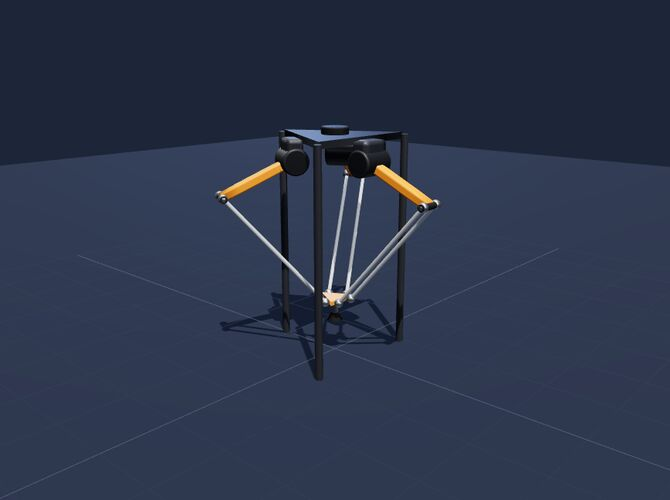
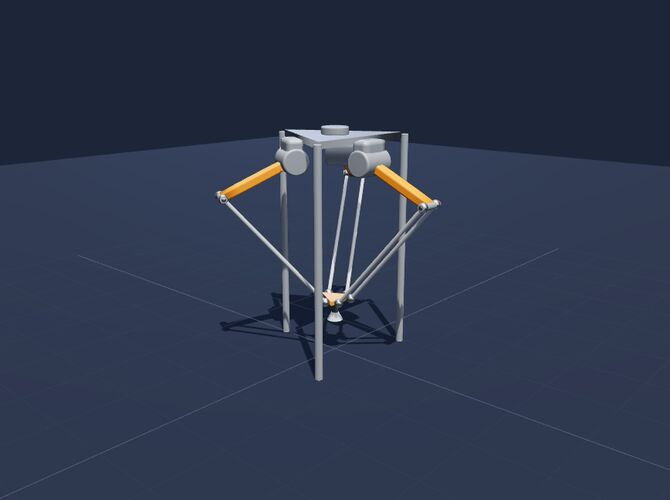
Re-render the dark anatomy thumbnails with light grey dark parts
Claude-Session: https://claude.ai/code/session_015VqmnNLeFGZq3AXD4Dp2x4

Changed region(s): [[0.3881, 0.24, 0.6269, 0.75], [0.5672, 0.39, 0.6567, 0.69], [0.3284, 0.39, 0.3582, 0.42]]

diff --git a/sw.js b/sw.js
@@ -1,8 +1,8 @@
 // sw.js — generated by tools/build-offline.mjs from tools/sw-src.js: do not edit.
-const VERSION = 'a126f00a4b', SIZE = 7513673;
-const FILES = {"/404.html":"8da2896bfe","/anatomy-cobot.html":"7d10f8a178","/anatomy-delta.html":"abfc04b726","/anatomy-drives.html":"709df47092","/anatomy-gantry.html":"e976796c89","/anatomy-humanoid.html":"1c500f632e","/anatomy-mobile.html":"6033337528","/anatomy-quadrotor.html":"a2779ee015","/anatomy-scara.html":"f6701099e2","/anatomy-stewart.html":"2a8febbaf9","/anatomy-wheels.html":"84d128e5ca","/anatomy.html":"a5cc754e46","/anatomy.js":"97139eb45a","/arm.html":"9c291c0d91","/articulated.html":"178a3f951b","/build.html":"7d7dfbf3de","/build.js":"0a2baa5079","/certificate.html":"a6a7211ef2","/certificate.js":"ab7075d874","/cobot.html":"47885b7995","/courses.js":"a4b9db9717","/delta.html":"36a8c0c518","/dharm.js":"f252a8bdfb","/gantry.html":"7a193c1d16","/glossary-data.js":"711968298a","/glossary.html":"e0e524d82c","/glossary.js":"a9f3a57f23","/helpers.js":"b4971d3e57","/i18n/fr-404.js":"b7c9798e34","/i18n/fr-anatomy-cobot.js":"61a14319c6","/i18n/fr-anatomy-delta.js":"a361272e30","/i18n/fr-anatomy-drives.js":"3dfd6859ee","/i18n/fr-anatomy-gantry.js":"671c38ec9e","/i18n/fr-anatomy-humanoid.js":"395565af9a","/i18n/fr-anatomy-mobile.js":"664b4f1b48","/i18n/fr-anatomy-quadrotor.js":"90fc91787a","/i18n/fr-anatomy-scara.js":"333783da16","/i18n/fr-anatomy-stewart.js":"1517fa8690","/i18n/fr-anatomy-wheels.js":"bbdad603aa","/i18n/fr-anatomy.js":"df3d3ff246","/i18n/fr-arm.js":"2fc722f1e5","/i18n/fr-articulated.js":"3405e2fcbe","/i18n/fr-build.js":"599c9b5ad7","/i18n/fr-cobot.js":"427e255d11","/i18n/fr-common.js":"edbf6d9fe4","/i18n/fr-delta.js":"a85602b153","/i18n/fr-gantry.js":"c42f143b51","/i18n/fr-index.js":"7d1c059d77","/i18n/fr-learn-advanced.js":"61172f6fa8","/i18n/fr-learn-armlab.js":"bd4cda8709","/i18n/fr-learn-control.js":"384ea91f48","/i18n/fr-learn-intelligence.js":"941cf5bc75","/i18n/fr-learn-mathkit.js":"fa55b6744c","/i18n/fr-learn-maths.js":"f627261e01","/i18n/fr-learn-mobile-pro.js":"2d7e75d703","/i18n/fr-learn-mobile.js":"33ba8b2d70","/i18n/fr-learn-model.js":"919ecc5874","/i18n/fr-learn-ros.js":"602763de5f","/i18n/fr-learn-singularities.js":"d5bd02c934","/i18n/fr-learn-world.js":"aa27b7d829","/i18n/fr-learn.js":"d456d2f035","/i18n/fr-mobile.js":"7afb8fba3a","/i18n/fr-scara.js":"ffeb5e9ad7","/i18n/fr-wheels.js":"a13de46aca","/icons/apple-touch-icon.png":"00f0670f9f","/icons/icon-192.png":"ba0ef106c9","/icons/icon-512.png":"3983a293fb","/icons/maskable-512.png":"b1db7520b1","/index.html":"6ebba96c9d","/inside-demo.js":"65daadefdb","/learn-advanced.html":"4c3f66c544","/learn-armlab.html":"98c005a104","/learn-control.html":"db00d1adfe","/learn-intelligence.html":"a782210d76","/learn-mathkit.html":"fcd1708c96","/learn-maths.html":"1747dcea95","/learn-mobile-pro.html":"8bf43fc07d","/learn-mobile-widgets.js":"19a711a9ef","/learn-mobile.html":"18a5aeb9b1","/learn-model.html":"e087a017da","/learn-more-widgets.js":"95f8081e6a","/learn-ros.html":"e59e09bc45","/learn-singularities.html":"7db6a141f5","/learn-widgets.js":"86e5dd2661","/learn-world.html":"3a8d499bc0","/learn.html":"69f4b6a049","/lesson-quiz.js":"42c2b9499c","/logo.svg":"438dd51dd6","/manifest.webmanifest":"ee43b67fc0","/mobile.html":"f683267ab6","/nav.js":"dbd49bde8d","/offline.html":"75f692a716","/ops-demo.js":"17d6b8b70c","/revision-data.js":"56ef77afc0","/revision.html":"f0fbcb7907","/revision.js":"6e67e8ffc8","/scara.html":"e84573f74f","/search-index.js":"d1ac932e4c","/search.js":"9e34079316","/sensors.html":"55313d685d","/sensors.js":"adfc65aced","/style.css":"69fe50530e","/system-demo.js":"ef7df46871","/thumbs/anatomy-cobot-dark.jpg":"77f027af81","/thumbs/anatomy-cobot-dark.png":"18d491325d","/thumbs/anatomy-cobot.jpg":"945d4b3ce7","/thumbs/anatomy-cobot.png":"12c853c588","/thumbs/anatomy-dark.jpg":"e0de58a15d","/thumbs/anatomy-dark.png":"cf3b66a8a9","/thumbs/anatomy-delta-dark.jpg":"844a4b0c9a","/thumbs/anatomy-delta-dark.png":"dc20f7ed94","/thumbs/anatomy-delta.jpg":"6f555a41b8","/thumbs/anatomy-delta.png":"ab27fcdfba","/thumbs/anatomy-drives-dark.jpg":"4a1456a9cc","/thumbs/anatomy-drives.jpg":"3492d264ef","/thumbs/anatomy-drives.png":"bba0b6cb08","/thumbs/anatomy-gantry-dark.jpg":"ea49e9920e","/thumbs/anatomy-gantry-dark.png":"64c616933c","/thumbs/anatomy-gantry.jpg":"b3f76550f3","/thumbs/anatomy-gantry.png":"f425c5a55e","/thumbs/anatomy-humanoid-dark.jpg":"f2686eec4a","/thumbs/anatomy-humanoid.jpg":"f708a99300","/thumbs/anatomy-humanoid.png":"4eb6ef57b7","/thumbs/anatomy-mobile-dark.jpg":"0cb6a6f602","/thumbs/anatomy-mobile-dark.png":"882ac48f29","/thumbs/anatomy-mobile.jpg":"b60e58446c","/thumbs/anatomy-mobile.png":"5a7f5380fb","/thumbs/anatomy-quadrotor-dark.jpg":"471aac536a","/thumbs/anatomy-quadrotor.jpg":"1b029683c1","/thumbs/anatomy-quadrotor.png":"07b512ae84","/thumbs/anatomy-scara-dark.jpg":"a98e9c0d69","/thumbs/anatomy-scara-dark.png":"2cabdf1baa","/thumbs/anatomy-scara.jpg":"70d4036498","/thumbs/anatomy-scara.png":"a477cd52a9","/thumbs/anatomy-stewart-dark.jpg":"4cb3a07bfc","/thumbs/anatomy-stewart.jpg":"e3f5e710b4","/thumbs/anatomy-stewart.png":"6b9c7e9a23","/thumbs/anatomy-wheels-dark.jpg":"b479ae9200","/thumbs/anatomy-wheels.jpg":"02136686d9","/thumbs/anatomy-wheels.png":"a5e4350f9d","/thumbs/anatomy.jpg":"b8d89487b3","/thumbs/anatomy.png":"55a665809e","/vendor/addons/controls/OrbitControls.js":"7909173281","/vendor/three.module.min.js":"2992ecd75d","/wheel-lab.js":"3f62c2f3f4","/wheels.html":"cd0347993b"};
-const SIZES = {"/404.html":1751,"/anatomy-cobot.html":14488,"/anatomy-delta.html":14453,"/anatomy-drives.html":15834,"/anatomy-gantry.html":14316,"/anatomy-humanoid.html":16268,"/anatomy-mobile.html":14597,"/anatomy-quadrotor.html":15723,"/anatomy-scara.html":14083,"/anatomy-stewart.html":15492,"/anatomy-wheels.html":15209,"/anatomy.html":14536,"/anatomy.js":93164,"/arm.html":17492,"/articulated.html":34031,"/build.html":2147,"/build.js":41249,"/certificate.html":1779,"/certificate.js":11669,"/cobot.html":33621,"/courses.js":4521,"/delta.html":40644,"/dharm.js":7212,"/gantry.html":19830,"/glossary-data.js":83474,"/glossary.html":1822,"/glossary.js":7125,"/helpers.js":9318,"/i18n/fr-404.js":416,"/i18n/fr-anatomy-cobot.js":3704,"/i18n/fr-anatomy-delta.js":4078,"/i18n/fr-anatomy-drives.js":5220,"/i18n/fr-anatomy-gantry.js":3921,"/i18n/fr-anatomy-humanoid.js":5770,"/i18n/fr-anatomy-mobile.js":4173,"/i18n/fr-anatomy-quadrotor.js":5224,"/i18n/fr-anatomy-scara.js":3557,"/i18n/fr-anatomy-stewart.js":4839,"/i18n/fr-anatomy-wheels.js":4821,"/i18n/fr-anatomy.js":3693,"/i18n/fr-arm.js":5690,"/i18n/fr-articulated.js":8775,"/i18n/fr-build.js":346,"/i18n/fr-cobot.js":11159,"/i18n/fr-common.js":9616,"/i18n/fr-delta.js":12909,"/i18n/fr-gantry.js":6690,"/i18n/fr-index.js":11995,"/i18n/fr-learn-advanced.js":66498,"/i18n/fr-learn-armlab.js":32670,"/i18n/fr-learn-control.js":104453,"/i18n/fr-learn-intelligence.js":65307,"/i18n/fr-learn-mathkit.js":90003,"/i18n/fr-learn-maths.js":52007,"/i18n/fr-learn-mobile-pro.js":151135,"/i18n/fr-learn-mobile.js":125679,"/i18n/fr-learn-model.js":78628,"/i18n/fr-learn-ros.js":58956,"/i18n/fr-learn-singularities.js":65849,"/i18n/fr-learn-world.js":76717,"/i18n/fr-learn.js":35993,"/i18n/fr-mobile.js":8757,"/i18n/fr-scara.js":6606,"/i18n/fr-wheels.js":30722,"/icons/apple-touch-icon.png":2867,"/icons/icon-192.png":5748,"/icons/icon-512.png":16840,"/icons/maskable-512.png":7246,"/index.html":80101,"/inside-demo.js":79852,"/learn-advanced.html":102382,"/learn-armlab.html":61892,"/learn-control.html":170846,"/learn-intelligence.html":106162,"/learn-mathkit.html":148640,"/learn-maths.html":104749,"/learn-mobile-pro.html":181318,"/learn-mobile-widgets.js":74650,"/learn-mobile.html":146762,"/learn-model.html":178189,"/learn-more-widgets.js":38015,"/learn-ros.html":120578,"/learn-singularities.html":100869,"/learn-widgets.js":10300,"/learn-world.html":116331,"/learn.html":97096,"/lesson-quiz.js":10831,"/logo.svg":456,"/manifest.webmanifest":785,"/mobile.html":30061,"/nav.js":50176,"/offline.html":4270,"/ops-demo.js":88807,"/revision-data.js":226171,"/revision.html":1773,"/revision.js":6057,"/scara.html":27280,"/search-index.js":378933,"/search.js":9405,"/sensors.html":1834,"/sensors.js":47046,"/style.css":163289,"/system-demo.js":136758,"/thumbs/anatomy-cobot-dark.jpg":12640,"/thumbs/anatomy-cobot-dark.png":78058,"/thumbs/anatomy-cobot.jpg":25754,"/thumbs/anatomy-cobot.png":66551,"/thumbs/anatomy-dark.jpg":14143,"/thumbs/anatomy-dark.png":93233,"/thumbs/anatomy-delta-dark.jpg":14259,"/thumbs/anatomy-delta-dark.png":90883,"/thumbs/anatomy-delta.jpg":31655,"/thumbs/anatomy-delta.png":78516,"/thumbs/anatomy-drives-dark.jpg":12497,"/thumbs/anatomy-drives.jpg":19386,"/thumbs/anatomy-drives.png":81228,"/thumbs/anatomy-gantry-dark.jpg":14645,"/thumbs/anatomy-gantry-dark.png":105707,"/thumbs/anatomy-gantry.jpg":34232,"/thumbs/anatomy-gantry.png":97027,"/thumbs/anatomy-humanoid-dark.jpg":11752,"/thumbs/anatomy-humanoid.jpg":35261,"/thumbs/anatomy-humanoid.png":78996,"/thumbs/anatomy-mobile-dark.jpg":9313,"/thumbs/anatomy-mobile-dark.png":66720,"/thumbs/anatomy-mobile.jpg":18117,"/thumbs/anatomy-mobile.png":55962,"/thumbs/anatomy-quadrotor-dark.jpg":9333,"/thumbs/anatomy-quadrotor.jpg":15499,"/thumbs/anatomy-quadrotor.png":42575,"/thumbs/anatomy-scara-dark.jpg":12699,"/thumbs/anatomy-scara-dark.png":78144,"/thumbs/anatomy-scara.jpg":31690,"/thumbs/anatomy-scara.png":71364,"/thumbs/anatomy-stewart-dark.jpg":13778,"/thumbs/anatomy-stewart.jpg":31592,"/thumbs/anatomy-stewart.png":85083,"/thumbs/anatomy-wheels-dark.jpg":19673,"/thumbs/anatomy-wheels.jpg":42363,"/thumbs/anatomy-wheels.png":130528,"/thumbs/anatomy.jpg":31308,"/thumbs/anatomy.png":80185,"/vendor/addons/controls/OrbitControls.js":29868,"/vendor/three.module.min.js":670681,"/wheel-lab.js":31950,"/wheels.html":61036};
-const CORE = ["/index.html","/offline.html","/certificate.html","/style.css","/nav.js","/helpers.js","/dharm.js","/lesson-quiz.js","/search.js","/search-index.js","/courses.js","/certificate.js","/logo.svg","/manifest.webmanifest","/i18n/fr-common.js","/i18n/fr-index.js","/vendor/three.module.min.js","/vendor/addons/controls/OrbitControls.js","/icons/apple-touch-icon.png","/icons/icon-192.png","/icons/icon-512.png","/icons/maskable-512.png","/thumbs/anatomy-cobot-dark.jpg","/thumbs/anatomy-cobot-dark.png","/thumbs/anatomy-cobot.jpg","/thumbs/anatomy-cobot.png","/thumbs/anatomy-dark.jpg","/thumbs/anatomy-dark.png","/thumbs/anatomy-delta-dark.jpg","/thumbs/anatomy-delta-dark.png","/thumbs/anatomy-delta.jpg","/thumbs/anatomy-delta.png","/thumbs/anatomy-drives-dark.jpg","/thumbs/anatomy-drives.jpg","/thumbs/anatomy-drives.png","/thumbs/anatomy-gantry-dark.jpg","/thumbs/anatomy-gantry-dark.png","/thumbs/anatomy-gantry.jpg","/thumbs/anatomy-gantry.png","/thumbs/anatomy-humanoid-dark.jpg","/thumbs/anatomy-humanoid.jpg","/thumbs/anatomy-humanoid.png","/thumbs/anatomy-mobile-dark.jpg","/thumbs/anatomy-mobile-dark.png","/thumbs/anatomy-mobile.jpg","/thumbs/anatomy-mobile.png","/thumbs/anatomy-quadrotor-dark.jpg","/thumbs/anatomy-quadrotor.jpg","/thumbs/anatomy-quadrotor.png","/thumbs/anatomy-scara-dark.jpg","/thumbs/anatomy-scara-dark.png","/thumbs/anatomy-scara.jpg","/thumbs/anatomy-scara.png","/thumbs/anatomy-stewart-dark.jpg","/thumbs/anatomy-stewart.jpg","/thumbs/anatomy-stewart.png","/thumbs/anatomy-wheels-dark.jpg","/thumbs/anatomy-wheels.jpg","/thumbs/anatomy-wheels.png","/thumbs/anatomy.jpg","/thumbs/anatomy.png"];
+const VERSION = 'deb5ed85e2', SIZE = 6139404;
+const FILES = {"/404.html":"8da2896bfe","/anatomy-cobot.html":"7d10f8a178","/anatomy-delta.html":"abfc04b726","/anatomy-drives.html":"709df47092","/anatomy-gantry.html":"e976796c89","/anatomy-humanoid.html":"1c500f632e","/anatomy-mobile.html":"6033337528","/anatomy-quadrotor.html":"a2779ee015","/anatomy-scara.html":"f6701099e2","/anatomy-stewart.html":"2a8febbaf9","/anatomy-wheels.html":"84d128e5ca","/anatomy.html":"a5cc754e46","/anatomy.js":"97139eb45a","/arm.html":"9c291c0d91","/articulated.html":"178a3f951b","/build.html":"7d7dfbf3de","/build.js":"0a2baa5079","/certificate.html":"a6a7211ef2","/certificate.js":"ab7075d874","/cobot.html":"47885b7995","/courses.js":"a4b9db9717","/delta.html":"36a8c0c518","/dharm.js":"f252a8bdfb","/gantry.html":"7a193c1d16","/glossary-data.js":"711968298a","/glossary.html":"e0e524d82c","/glossary.js":"a9f3a57f23","/helpers.js":"b4971d3e57","/i18n/fr-404.js":"b7c9798e34","/i18n/fr-anatomy-cobot.js":"61a14319c6","/i18n/fr-anatomy-delta.js":"a361272e30","/i18n/fr-anatomy-drives.js":"3dfd6859ee","/i18n/fr-anatomy-gantry.js":"671c38ec9e","/i18n/fr-anatomy-humanoid.js":"395565af9a","/i18n/fr-anatomy-mobile.js":"664b4f1b48","/i18n/fr-anatomy-quadrotor.js":"90fc91787a","/i18n/fr-anatomy-scara.js":"333783da16","/i18n/fr-anatomy-stewart.js":"1517fa8690","/i18n/fr-anatomy-wheels.js":"bbdad603aa","/i18n/fr-anatomy.js":"df3d3ff246","/i18n/fr-arm.js":"2fc722f1e5","/i18n/fr-articulated.js":"3405e2fcbe","/i18n/fr-build.js":"599c9b5ad7","/i18n/fr-cobot.js":"427e255d11","/i18n/fr-common.js":"edbf6d9fe4","/i18n/fr-delta.js":"a85602b153","/i18n/fr-gantry.js":"c42f143b51","/i18n/fr-index.js":"7d1c059d77","/i18n/fr-learn-advanced.js":"61172f6fa8","/i18n/fr-learn-armlab.js":"bd4cda8709","/i18n/fr-learn-control.js":"384ea91f48","/i18n/fr-learn-intelligence.js":"941cf5bc75","/i18n/fr-learn-mathkit.js":"fa55b6744c","/i18n/fr-learn-maths.js":"f627261e01","/i18n/fr-learn-mobile-pro.js":"2d7e75d703","/i18n/fr-learn-mobile.js":"33ba8b2d70","/i18n/fr-learn-model.js":"919ecc5874","/i18n/fr-learn-ros.js":"602763de5f","/i18n/fr-learn-singularities.js":"d5bd02c934","/i18n/fr-learn-world.js":"aa27b7d829","/i18n/fr-learn.js":"d456d2f035","/i18n/fr-mobile.js":"7afb8fba3a","/i18n/fr-scara.js":"ffeb5e9ad7","/i18n/fr-wheels.js":"a13de46aca","/icons/apple-touch-icon.png":"00f0670f9f","/icons/icon-192.png":"ba0ef106c9","/icons/icon-512.png":"3983a293fb","/icons/maskable-512.png":"b1db7520b1","/index.html":"6ebba96c9d","/inside-demo.js":"65daadefdb","/learn-advanced.html":"4c3f66c544","/learn-armlab.html":"98c005a104","/learn-control.html":"db00d1adfe","/learn-intelligence.html":"a782210d76","/learn-mathkit.html":"fcd1708c96","/learn-maths.html":"1747dcea95","/learn-mobile-pro.html":"8bf43fc07d","/learn-mobile-widgets.js":"19a711a9ef","/learn-mobile.html":"18a5aeb9b1","/learn-model.html":"e087a017da","/learn-more-widgets.js":"95f8081e6a","/learn-ros.html":"e59e09bc45","/learn-singularities.html":"7db6a141f5","/learn-widgets.js":"86e5dd2661","/learn-world.html":"3a8d499bc0","/learn.html":"69f4b6a049","/lesson-quiz.js":"42c2b9499c","/logo.svg":"438dd51dd6","/manifest.webmanifest":"ee43b67fc0","/mobile.html":"f683267ab6","/nav.js":"dbd49bde8d","/offline.html":"75f692a716","/ops-demo.js":"17d6b8b70c","/revision-data.js":"56ef77afc0","/revision.html":"f0fbcb7907","/revision.js":"6e67e8ffc8","/scara.html":"e84573f74f","/search-index.js":"d1ac932e4c","/search.js":"9e34079316","/sensors.html":"55313d685d","/sensors.js":"adfc65aced","/style.css":"69fe50530e","/system-demo.js":"ef7df46871","/thumbs/anatomy-cobot-dark.jpg":"cdd1c4b9ed","/thumbs/anatomy-cobot.jpg":"945d4b3ce7","/thumbs/anatomy-dark.jpg":"9a2318b6e2","/thumbs/anatomy-delta-dark.jpg":"f56dabe5f5","/thumbs/anatomy-delta.jpg":"6f555a41b8","/thumbs/anatomy-drives-dark.jpg":"3c51209817","/thumbs/anatomy-drives.jpg":"3492d264ef","/thumbs/anatomy-gantry-dark.jpg":"47779e8bfb","/thumbs/anatomy-gantry.jpg":"b3f76550f3","/thumbs/anatomy-humanoid-dark.jpg":"7e387dd6b8","/thumbs/anatomy-humanoid.jpg":"f708a99300","/thumbs/anatomy-mobile-dark.jpg":"5011b9eac6","/thumbs/anatomy-mobile.jpg":"b60e58446c","/thumbs/anatomy-quadrotor-dark.jpg":"6738c2ad7d","/thumbs/anatomy-quadrotor.jpg":"1b029683c1","/thumbs/anatomy-scara-dark.jpg":"7774850248","/thumbs/anatomy-scara.jpg":"70d4036498","/thumbs/anatomy-stewart-dark.jpg":"643d7302b7","/thumbs/anatomy-stewart.jpg":"e3f5e710b4","/thumbs/anatomy-wheels-dark.jpg":"eec1c144b6","/thumbs/anatomy-wheels.jpg":"02136686d9","/thumbs/anatomy.jpg":"b8d89487b3","/vendor/addons/controls/OrbitControls.js":"7909173281","/vendor/three.module.min.js":"2992ecd75d","/wheel-lab.js":"3f62c2f3f4","/wheels.html":"cd0347993b"};
+const SIZES = {"/404.html":1751,"/anatomy-cobot.html":14488,"/anatomy-delta.html":14453,"/anatomy-drives.html":15834,"/anatomy-gantry.html":14316,"/anatomy-humanoid.html":16268,"/anatomy-mobile.html":14597,"/anatomy-quadrotor.html":15723,"/anatomy-scara.html":14083,"/anatomy-stewart.html":15492,"/anatomy-wheels.html":15209,"/anatomy.html":14536,"/anatomy.js":93164,"/arm.html":17492,"/articulated.html":34031,"/build.html":2147,"/build.js":41249,"/certificate.html":1779,"/certificate.js":11669,"/cobot.html":33621,"/courses.js":4521,"/delta.html":40644,"/dharm.js":7212,"/gantry.html":19830,"/glossary-data.js":83474,"/glossary.html":1822,"/glossary.js":7125,"/helpers.js":9318,"/i18n/fr-404.js":416,"/i18n/fr-anatomy-cobot.js":3704,"/i18n/fr-anatomy-delta.js":4078,"/i18n/fr-anatomy-drives.js":5220,"/i18n/fr-anatomy-gantry.js":3921,"/i18n/fr-anatomy-humanoid.js":5770,"/i18n/fr-anatomy-mobile.js":4173,"/i18n/fr-anatomy-quadrotor.js":5224,"/i18n/fr-anatomy-scara.js":3557,"/i18n/fr-anatomy-stewart.js":4839,"/i18n/fr-anatomy-wheels.js":4821,"/i18n/fr-anatomy.js":3693,"/i18n/fr-arm.js":5690,"/i18n/fr-articulated.js":8775,"/i18n/fr-build.js":346,"/i18n/fr-cobot.js":11159,"/i18n/fr-common.js":9616,"/i18n/fr-delta.js":12909,"/i18n/fr-gantry.js":6690,"/i18n/fr-index.js":11995,"/i18n/fr-learn-advanced.js":66498,"/i18n/fr-learn-armlab.js":32670,"/i18n/fr-learn-control.js":104453,"/i18n/fr-learn-intelligence.js":65307,"/i18n/fr-learn-mathkit.js":90003,"/i18n/fr-learn-maths.js":52007,"/i18n/fr-learn-mobile-pro.js":151135,"/i18n/fr-learn-mobile.js":125679,"/i18n/fr-learn-model.js":78628,"/i18n/fr-learn-ros.js":58956,"/i18n/fr-learn-singularities.js":65849,"/i18n/fr-learn-world.js":76717,"/i18n/fr-learn.js":35993,"/i18n/fr-mobile.js":8757,"/i18n/fr-scara.js":6606,"/i18n/fr-wheels.js":30722,"/icons/apple-touch-icon.png":2867,"/icons/icon-192.png":5748,"/icons/icon-512.png":16840,"/icons/maskable-512.png":7246,"/index.html":80101,"/inside-demo.js":79852,"/learn-advanced.html":102382,"/learn-armlab.html":61892,"/learn-control.html":170846,"/learn-intelligence.html":106162,"/learn-mathkit.html":148640,"/learn-maths.html":104749,"/learn-mobile-pro.html":181318,"/learn-mobile-widgets.js":74650,"/learn-mobile.html":146762,"/learn-model.html":178189,"/learn-more-widgets.js":38015,"/learn-ros.html":120578,"/learn-singularities.html":100869,"/learn-widgets.js":10300,"/learn-world.html":116331,"/learn.html":97096,"/lesson-quiz.js":10831,"/logo.svg":456,"/manifest.webmanifest":785,"/mobile.html":30061,"/nav.js":50176,"/offline.html":4270,"/ops-demo.js":88807,"/revision-data.js":226171,"/revision.html":1773,"/revision.js":6057,"/scara.html":27280,"/search-index.js":378933,"/search.js":9405,"/sensors.html":1834,"/sensors.js":47046,"/style.css":163289,"/system-demo.js":136758,"/thumbs/anatomy-cobot-dark.jpg":12875,"/thumbs/anatomy-cobot.jpg":25754,"/thumbs/anatomy-dark.jpg":14361,"/thumbs/anatomy-delta-dark.jpg":14720,"/thumbs/anatomy-delta.jpg":31655,"/thumbs/anatomy-drives-dark.jpg":12597,"/thumbs/anatomy-drives.jpg":19386,"/thumbs/anatomy-gantry-dark.jpg":15984,"/thumbs/anatomy-gantry.jpg":34232,"/thumbs/anatomy-humanoid-dark.jpg":11768,"/thumbs/anatomy-humanoid.jpg":35261,"/thumbs/anatomy-mobile-dark.jpg":9300,"/thumbs/anatomy-mobile.jpg":18117,"/thumbs/anatomy-quadrotor-dark.jpg":10167,"/thumbs/anatomy-quadrotor.jpg":15499,"/thumbs/anatomy-scara-dark.jpg":12828,"/thumbs/anatomy-scara.jpg":31690,"/thumbs/anatomy-stewart-dark.jpg":14095,"/thumbs/anatomy-stewart.jpg":31592,"/thumbs/anatomy-wheels-dark.jpg":22528,"/thumbs/anatomy-wheels.jpg":42363,"/thumbs/anatomy.jpg":31308,"/vendor/addons/controls/OrbitControls.js":29868,"/vendor/three.module.min.js":670681,"/wheel-lab.js":31950,"/wheels.html":61036};
+const CORE = ["/index.html","/offline.html","/certificate.html","/style.css","/nav.js","/helpers.js","/dharm.js","/lesson-quiz.js","/search.js","/search-index.js","/courses.js","/certificate.js","/logo.svg","/manifest.webmanifest","/i18n/fr-common.js","/i18n/fr-index.js","/vendor/three.module.min.js","/vendor/addons/controls/OrbitControls.js","/icons/apple-touch-icon.png","/icons/icon-192.png","/icons/icon-512.png","/icons/maskable-512.png","/thumbs/anatomy-cobot-dark.jpg","/thumbs/anatomy-cobot.jpg","/thumbs/anatomy-dark.jpg","/thumbs/anatomy-delta-dark.jpg","/thumbs/anatomy-delta.jpg","/thumbs/anatomy-drives-dark.jpg","/thumbs/anatomy-drives.jpg","/thumbs/anatomy-gantry-dark.jpg","/thumbs/anatomy-gantry.jpg","/thumbs/anatomy-humanoid-dark.jpg","/thumbs/anatomy-humanoid.jpg","/thumbs/anatomy-mobile-dark.jpg","/thumbs/anatomy-mobile.jpg","/thumbs/anatomy-quadrotor-dark.jpg","/thumbs/anatomy-quadrotor.jpg","/thumbs/anatomy-scara-dark.jpg","/thumbs/anatomy-scara.jpg","/thumbs/anatomy-stewart-dark.jpg","/thumbs/anatomy-stewart.jpg","/thumbs/anatomy-wheels-dark.jpg","/thumbs/anatomy-wheels.jpg","/thumbs/anatomy.jpg"];
 // The service worker of Robotics Atlas (offline mode). tools/build-offline.mjs writes sw.js = the list of files
 // (FILES: url → content hash, SIZE: total bytes, CORE: the files kept at install) + this code.
 //  * at install, the core files (home page and everything every page needs) are stored, and the files already stored
